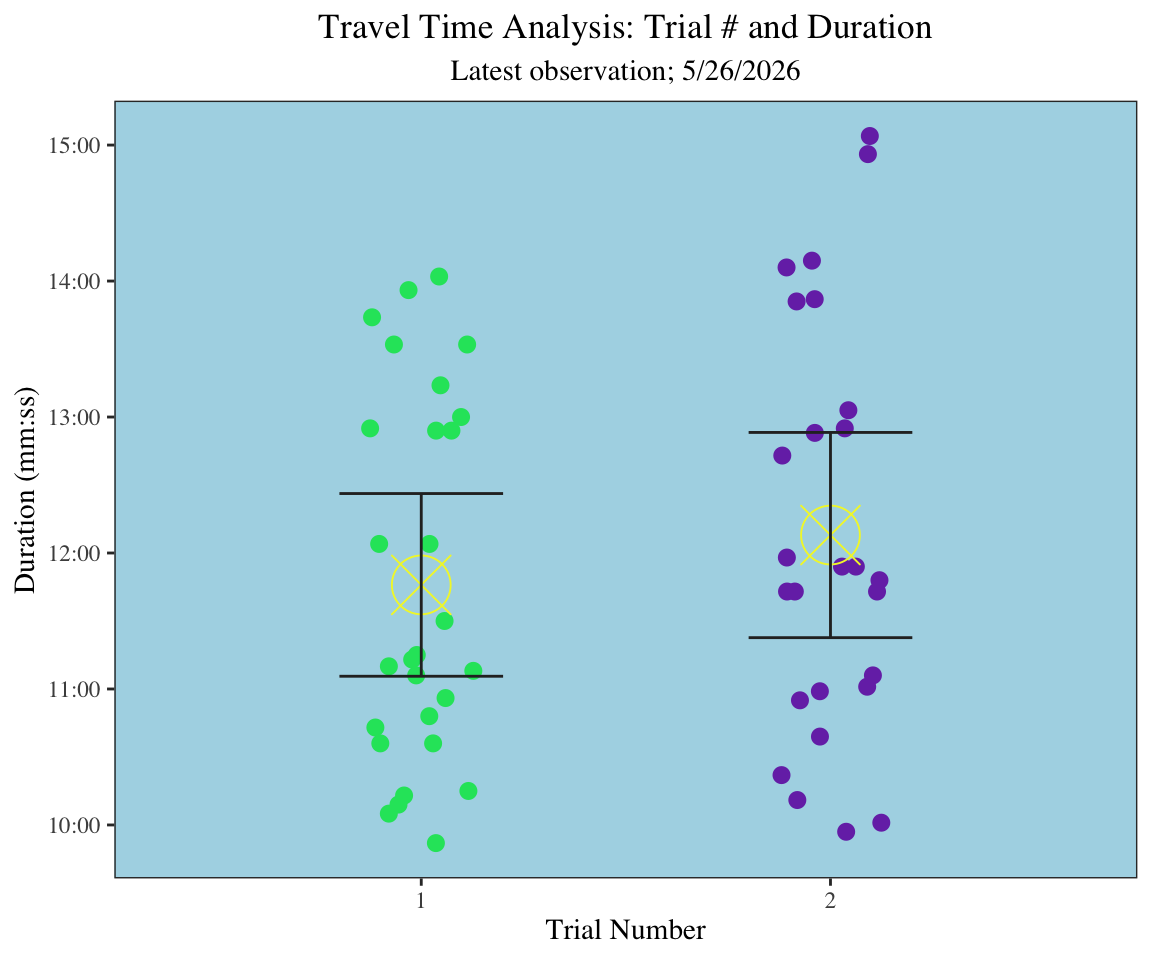
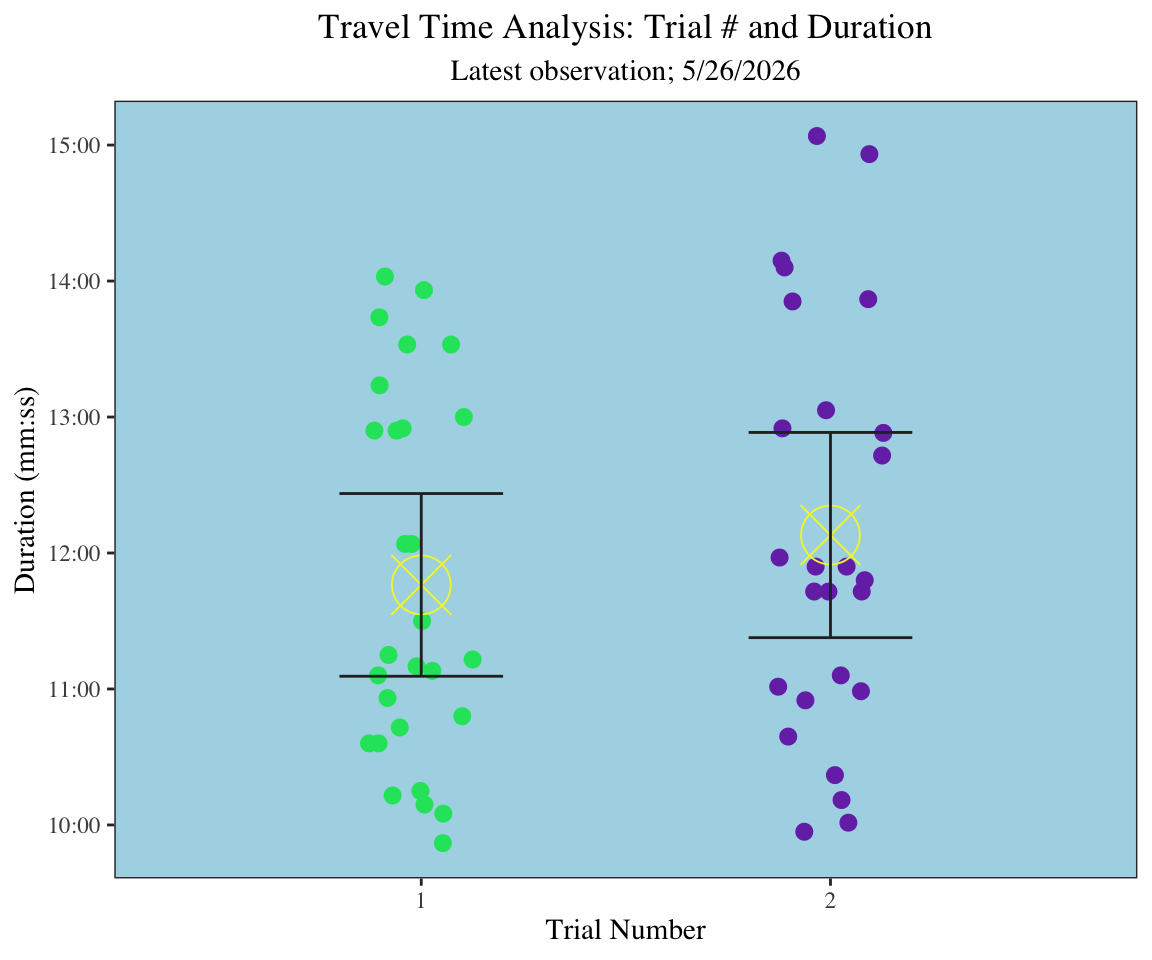
describing how well author handled visual clutter in ANOVA plot

diff --git a/code/Homework_quarto_doc.html b/code/Homework_quarto_doc.html
@@ -433,10 +433,14 @@ F-statistic: 26.93 on 1 and 30 DF,  p-value: 1.366e-05</code></pre>
 </section>
 <section id="b." class="level2">
 <h2 class="anchored" data-anchor-id="b.">b.</h2>
-<p>The table clearly shows the results of the ANOVA tests by including the key statistical components needed for interpretation: degrees of freedom, F-statistic, and p-value. The inclusion of N (sample size), mean, and SE (standard error) alongside the test statistics is also useful because it gives the reader context for the raw data underlying each comparison, rather than just isolating the test results. The organization by treatment, time period, and site makes it easy to compare across all four ANOVAs.</p>
+<p>The table clearly shows the results of the ANOVA tests by including the key statistical components needed for interpretation: degrees of freedom, F-statistic, and p-value. The inclusion of N (sample size), mean, and SE (standard error) alongside the test statistics is also useful because it gives the reader context for the raw data underlying each comparison, rather than just isolating the test results.</p>
 </section>
 <section id="c." class="level2">
 <h2 class="anchored" data-anchor-id="c.">c.&nbsp;</h2>
+<p>The authors handled visual clutter in a way that made the graph legible but not with outstanding quality. The categories listed in the table are bold so that each separate category cannot be confused with the other. Although, all data have the same font style, size, and type. So, if there is any data that is particularly useful for the validity of the test results, it cannot be deduced by looking at the graph. That being said, the organization by treatment, time period, and site makes it easy to compare across all four ANOVAs.</p>
+</section>
+<section id="d." class="level2">
+<h2 class="anchored" data-anchor-id="d.">d.&nbsp;</h2>
 </section>
 </section>
 
